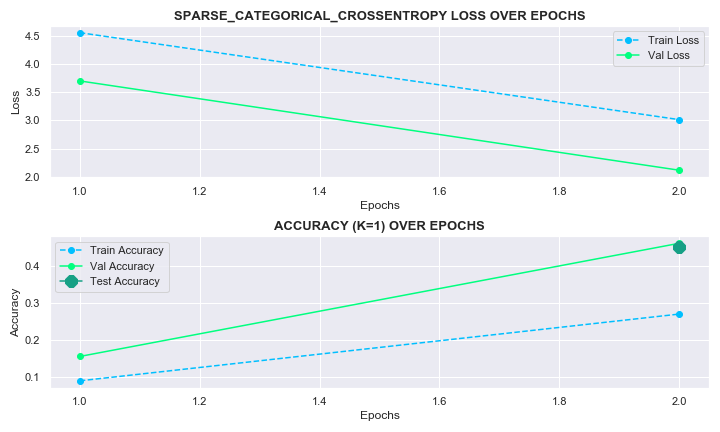
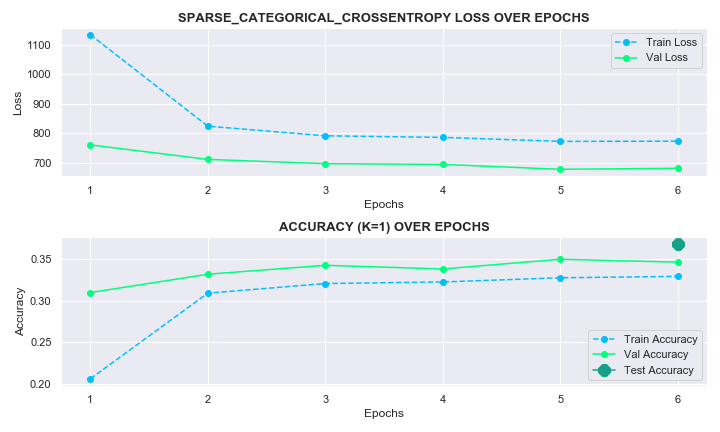
Implement imbalanced learning correction

diff --git a/gru_tf2_keras_embed_imb.py b/gru_tf2_keras_embed_imb.py
@@ -26,8 +26,8 @@ warnings.simplefilter(action="ignore", category=FutureWarning)
 ####################################################################################################
 
 # run settings
-DRY_RUN = False  # runs flow on small subset of data for speed and disables mlfow tracking
-LOGGING = True  # mlflow experiment logging
+DRY_RUN = True  # runs flow on small subset of data for speed and disables mlfow tracking
+LOGGING = False  # mlflow experiment logging
 WEEKS_OF_DATA = 3  # use 1, 2, 3 or 4 weeks worth of data (currently in production is 1 week)
 
 # define where we run and on which device (GPU/CPU)
@@ -51,7 +51,7 @@ print("🧠 Running TensorFlow version {} on {}".format(tf.__version__, DEVICE))
 # data constants
 N_TOP_PRODUCTS = 15000  # note, 6000 is ~70% views, 8000 ~80%, 10000 ~84%, 12000 ~87%, 15000 ~90%
 MIN_PRODUCTS_TRAIN = 2  # sequences with less products (excluding target) are invalid and removed
-MIN_PRODUCTS_TEST = 2  # sequences with less products (excluding target) are invalid and removed
+MIN_PRODUCTS_TEST = 1  # sequences with less products (excluding target) are invalid and removed
 WINDOW_LEN = 5  # fixed moving window size for generating input-sequence/target rows for training
 PRED_LOOKBACK = 5  # number of most recent products used per sequence in the test set to predict on
 TOP_K_OUTPUT_LEN = 10  # number of top K product recommendations to extract from the probabilities
@@ -59,36 +59,36 @@ TOP_K_OUTPUT_LEN = 10  # number of top K product recommendations to extract from
 # model constants
 EMBED_DIM = 48  # number of dimensions for the embeddings
 N_HIDDEN_UNITS = 192  # number of units in the GRU layers
-MAX_EPOCHS = 24  # maximum number of epochs to train for
+MAX_EPOCHS = 48  # maximum number of epochs to train for
 BATCH_SIZE = 1024  # batch size for training (512 slower+more accurate, 1024 faster+less accurate)
-DROPOUT = 0.25  # input data dropout
-RECURRENT_DROPOUT = 0.25  # recurrent state dropout during training, fast CuDNN GPU requires 0!
-LEARNING_RATE = 0.002
-OPTIMIZER = tf.keras.optimizers.Nadam(
+DROPOUT = 0.1  # input data dropout
+RECURRENT_DROPOUT = 0.1  # recurrent state dropout during training, fast CuDNN GPU requires 0!
+LEARNING_RATE = 0.004
+OPTIMIZER = tf.keras.optimizers.Adam(
     learning_rate=LEARNING_RATE
 )  # note, tested a couple (RMSProp, Adam, Nadam), Adam and Nadam both seem fast with good results
 
 # Automatic FP16 mixed-precision training instead of FP32 for gradients and model weights
 # See: https://docs.nvidia.com/deeplearning/sdk/mixed-precision-training/index.html#tensorflow-amp
 # Needs more investigation in terms of speed, gives a warning for memory heavy tensor conversion
-OPTIMIZER = tf.train.experimental.enable_mixed_precision_graph_rewrite(OPTIMIZER)
+# OPTIMIZER = tf.train.experimental.enable_mixed_precision_graph_rewrite(OPTIMIZER)
 
 # training constants
-TRAIN_RATIO = 0.8
-VAL_RATIO = 0.1  # note, creates a gap in time between train/test, no val improves performance
-TEST_RATIO = 0.1  # note, this % results in more samples when more weeks of data are used
+TRAIN_RATIO = 0.7
+VAL_RATIO = 0.15  # note, creates a gap in time between train/test, no val improves performance
+TEST_RATIO = 0.15  # note, this % results in more samples when more weeks of data are used
 SHUFFLE_TRAIN_SET = True  # shuffles the training sequences (row-wise), seems smart for training
 SHUFFLE_TRAIN_AND_VAL_SET = False  # shuffles both the training and validation sequences
 DATA_IMBALANCE_CORRECTION = True  # Supply product weights during model training to avoid bias
 
 # dry run constants for development and debugging
 if DRY_RUN:
-    SEQUENCES = 100000
-    N_TOP_PRODUCTS = 100
-    EMBED_DIM = 32
-    N_HIDDEN_UNITS = 64
+    SEQUENCES = 200000
+    N_TOP_PRODUCTS = 1000
+    EMBED_DIM = 48
+    N_HIDDEN_UNITS = 192
     BATCH_SIZE = 32
-    MAX_EPOCHS = 2
+    MAX_EPOCHS = 12
 
 # Current best set of parameters (10K products)
 # WEEKS_OF_DATA = 3
@@ -120,10 +120,10 @@ print("     Using DRY_RUN: {} and {} weeks of data".format(DRY_RUN, WEEKS_OF_DAT
 print("     Reading raw input sequence data from disk")
 
 # input data
-DATA_PATH1 = "marnix-single-flow-rnn/data/ga_product_sequence_20191013.csv"
-DATA_PATH2 = "marnix-single-flow-rnn/data/ga_product_sequence_20191020.csv"
-DATA_PATH3 = "marnix-single-flow-rnn/data/ga_product_sequence_20191027.csv"
-DATA_PATH4 = "marnix-single-flow-rnn/data/ga_product_sequence_20191103.csv"
+DATA_PATH1 = "./data/ga_product_sequence_20191013.csv"
+DATA_PATH2 = "./data/ga_product_sequence_20191020.csv"
+DATA_PATH3 = "./data/ga_product_sequence_20191027.csv"
+DATA_PATH4 = "./data/ga_product_sequence_20191103.csv"
 
 if DRY_RUN:
     sequence_df = pd.read_csv(DATA_PATH3)
@@ -169,6 +169,12 @@ def print_memory_footprint(array):
     print("     Memory footprint of array: {:.4} MegaBytes".format(array.nbytes * 1e-6))
 
 
+# # hash tokens
+# hashing = tf.keras.preprocessing.text.hashing_trick(
+#     sequence_df["product_sequence"], n=10, hash_function="md5", lower=True, split=","
+# )
+
+
 print("\n💾 Processing data")
 print("     Tokenizing, padding, filtering & splitting sequences")
 # define tokenizer to encode sequences and include N most popular items (occurence)
@@ -177,6 +183,7 @@ tokenizer.fit_on_texts(sequence_df["product_sequence"])  # encode string sequenc
 sequences = tokenizer.texts_to_sequences(sequence_df["product_sequence"])  # array of sequences
 del sequence_df
 gc.collect()
+
 
 # pre-pad sequences with 0's, length is based on longest present sequence
 # this is required to transform the variable length sequences into equal train/test pairs
@@ -199,6 +206,14 @@ gc.collect()
 test_index = int(TEST_RATIO * len(padded_sequences))
 padded_sequences_train = padded_sequences[:-test_index].copy()
 padded_sequences_test = padded_sequences[-test_index:].copy()
+
+# generate a dictionary with unique value counts to be used as class_weight in model fit
+# the idea is to combat against bias due to imbalanced training data
+if DATA_IMBALANCE_CORRECTION:
+    print("     Generating product occurence dictionary to be used as class weights against bias")
+    product_token, product_count = np.unique(padded_sequences_train, return_counts=True)
+    product_count_dict = dict(zip(product_token, product_count))
+    del product_count_dict[0]  # drop 0 token, which is padding and not a product
 
 
 def filter_valid_sequences(array, min_items=MIN_PRODUCTS_TRAIN):
@@ -244,16 +259,6 @@ print("\n     Training & evaluating model on {} sequences".format(len(padded_seq
 print("     Testing recommendations on {} sequences".format(len(padded_sequences_test)))
 print_memory_footprint(padded_sequences_train)
 print_memory_footprint(padded_sequences_test)
-
-# generate a dictionary with unique value counts to be used as class_weight in model fit
-# the idea is to combat against bias due to highly imbalanced training data
-if DATA_IMBALANCE_CORRECTION:
-    print("     Generating product occurence dictionary to be used as class weights against bias")
-    product_token, product_count = np.unique(padded_sequences_train, return_counts=True)
-    product_count_dict = dict(zip(product_token, product_count))
-    del product_count_dict[0]  # drop 0 token, which is padding and not a product
-else:
-    product_count_dict = None
 
 # clean up memory
 del padded_sequences
@@ -396,6 +401,7 @@ model = embedding_GRU_model(
     vocab_size=N_TOP_PRODUCTS, embed_dim=EMBED_DIM, num_units=N_HIDDEN_UNITS, batch_size=BATCH_SIZE
 )
 
+
 # network info
 print("\n     Network summary: \n{}".format(model.summary()))
 total_params = model.count_params()
@@ -421,6 +427,7 @@ model_history = model.fit(
     callbacks=[early_stopping_monitor],
     class_weight=product_count_dict,  # this is a dictionary with product occurence count
 )
+
 
 train_time = time.time() - t_train
 print(
@@ -466,8 +473,8 @@ def generate_predicted_sequences(y_pred_probs, output_length=TOP_K_OUTPUT_LEN):
 # https://github.com/tensorflow/tensorflow/issues/33009
 # y_pred_probs = model.predict(X_test, batch_size=BATCH_SIZE)
 
-# predict in multiple batches to fit in GPU memory (array is 4 bytes * sequences * products = big)
-dividing_row = len(X_test) // 3
+# predict in two stages to fit in GPU memory (array is 4 bytes * sequences * products = big)
+dividing_row = len(X_test) // 2
 remainder_due_to_batch_size = dividing_row % BATCH_SIZE  # needs to fit into BATCH_SIZE
 dividing_row = dividing_row - remainder_due_to_batch_size
 
@@ -475,7 +482,7 @@ predicted_sequences = np.empty(
     [len(X_test), TOP_K_OUTPUT_LEN], dtype=np.float32
 )  # pre-allocate required memory for array for efficiency
 
-# first batch of recomendations
+# first partition of recomendations
 y_pred_probs = model.predict(X_test[:dividing_row])
 predicted_sequences[:dividing_row] = np.apply_along_axis(
     generate_predicted_sequences, 1, y_pred_probs  # extract TOP_K_OUTPUT_LEN recommendations
@@ -483,17 +490,9 @@ predicted_sequences[:dividing_row] = np.apply_along_axis(
 del y_pred_probs
 gc.collect()
 
-# second batch of recomendations
-y_pred_probs = model.predict(X_test[dividing_row : dividing_row * 2])
-predicted_sequences[dividing_row : dividing_row * 2] = np.apply_along_axis(
-    generate_predicted_sequences, 1, y_pred_probs  # extract TOP_K_OUTPUT_LEN recommendations
-)
-del y_pred_probs
-gc.collect()
-
-# third batch of recomendations
-y_pred_probs = model.predict(X_test[dividing_row * 2 :])
-predicted_sequences[dividing_row * 2 :] = np.apply_along_axis(
+# second partition of recomendations
+y_pred_probs = model.predict(X_test[dividing_row:])
+predicted_sequences[dividing_row:] = np.apply_along_axis(
     generate_predicted_sequences, 1, y_pred_probs  # extract TOP_K_OUTPUT_LEN recommendations
 )
 del y_pred_probs
@@ -643,7 +642,7 @@ plt.ylabel("Accuracy")
 plt.title("Accuracy (k=1) over Epochs".format(model.loss).upper(), size=13, weight="bold")
 plt.legend()
 plt.tight_layout()
-plt.savefig("marnix-single-flow-rnn/plots/validation_plots.png")
+plt.savefig("./plots/validation_plots.png")
 
 ####################################################################################################
 # 🚀 LOG EXPERIMENT
@@ -686,8 +685,8 @@ if LOGGING and not DRY_RUN:
     mlflow.log_metric("Pred secs", np.round(pred_time))
 
     # Log artifacts
-    mlflow.log_artifact("marnix-single-flow-rnn/gru_tf2_keras_embedding.py")  # log executed code
-    mlflow.log_artifact("marnix-single-flow-rnn/plots/validation_plots.png")  # log validation plots
+    mlflow.log_artifact("./gru_tf2_keras_embedding.py")  # log executed code
+    mlflow.log_artifact("./plots/validation_plots.png")  # log validation plots
 
     mlflow.end_run()
 
@@ -700,7 +699,7 @@ gc.collect()
 ####################################################################################################
 
 # # data with product mapping (id, type, name), add mapping from our encoding!
-# product_map_df = pd.read_csv("marnix-single-flow-rnn/data/product_mapping.csv")
+# product_map_df = pd.read_csv("./data/product_mapping.csv")
 # product_map_df["product_id"] = product_map_df["product_id"].astype(str)
 # product_map_df["encoded_product_id"] = product_map_df["product_id"].map(tokenizer.word_index)
 # product_map_df.dropna(inplace=True)
@@ -743,8 +742,8 @@ gc.collect()
 #
 # # output tsv files to disk for embedding projections with https://projector.tensorflow.org
 # pd.DataFrame(embedding_weights[:5000]).to_csv(
-#     "marnix-single-flow-rnn/data/embedding_weights_5k.tsv", sep="\t", header=False, index=False
+#     "./data/embedding_weights_5k.tsv", sep="\t", header=False, index=False
 # )
 # product_map_df[product_map_df["encoded_product_id"] <= 5000].to_csv(
-#     "marnix-single-flow-rnn/data/product_mapping_5k.tsv", sep="\t", index=False
+#     "./data/product_mapping_5k.tsv", sep="\t", index=False
 # )

diff --git a/dev_notes.md b/dev_notes.md
@@ -21,8 +21,8 @@
 
 ##### INPUT DATA
 
-* Remove sessions of only duplicate items
-* Extend used input data
+* [ ] Remove sessions of only duplicate items
+* [ ] Extend used input data
   * [ ] Customer demographics/information
   * [ ] Extra Session data
     * Purchase central in sequence?
@@ -44,6 +44,8 @@
 
 ##### MODEL ARCHITECTURE
 
+* [ ] For fast CUDNN GRU implementation we need stricly right padding?
+* [ ] sample_weight? More weight on last? (https://www.tensorflow.org/versions/r2.0/api_docs/python/tf/keras/Model)
 * [ ] Unroll GRU (https://www.tensorflow.org/api_docs/python/tf/keras/layers/GRU)
 * [ ] CuDNN implementation requirements (https://www.tensorflow.org/api_docs/python/tf/keras/layers/GRU)
 * [ ] Train many to many (output 5?)
